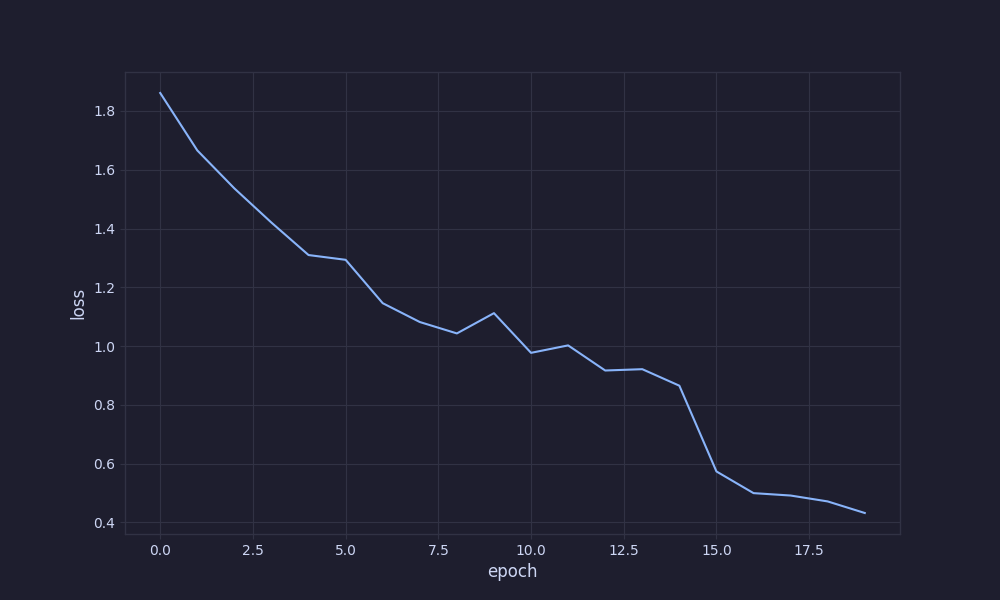
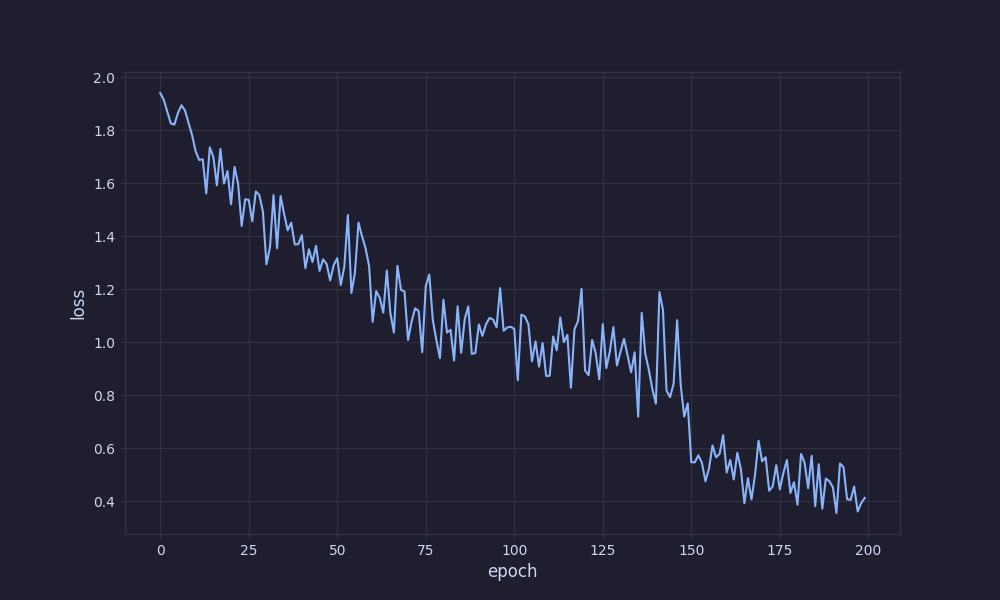
rnn valid loss

diff --git a/src/rnn.py b/src/rnn.py
@@ -50,7 +50,8 @@ class RNN(eqx.Module):
     def __init__(self, n_input: int, n_hidden: int, n_output: int):
         self.n_input = n_input
 
-        self.Wi2h = jax.random.normal(key, (n_input, n_hidden)) * 0.05  # kaiming init
+        self.Wi2h = jax.random.normal(
+            key, (n_input, n_hidden)) * 0.05  # kaiming init
         self.Wh2h = jax.random.normal(key, (n_hidden, n_hidden)) * 0.01
         self.bh = jnp.zeros((n_hidden))
         self.Wh2o = jax.random.normal(key, (n_hidden, n_output)) * 0.01
@@ -117,3 +118,22 @@ for epoch in range(epochs + 1):
     # backward pass
     updates = jax.tree_util.tree_map(lambda g: -lr * g, gradient)
     model = eqx.apply_updates(model, updates)
+
+# 6. validation test
+valid_loss = 0.0
+for i in range(len(Xval)):
+    loss, _ = get_loss(model, Xval[i], Yval[i])
+    valid_loss += loss
+valid_loss /= len(Xval)
+print(f"valid_loss={valid_loss:.3f}")  # best loss is 0.611
+
+# 7. plot loss
+lossi.pop()
+lossi = jnp.mean(jnp.reshape(jnp.array(lossi), (-1, 100)), 1)
+
+plt.figure(figsize=(10, 6))
+plt.style.use(["ggplot", catppuccin.PALETTE.mocha.identifier])
+plt.ylabel("loss")
+plt.xlabel("epoch")
+plt.plot(lossi)
+plt.savefig("test_rnn")

diff --git a/src/torch_rnn.py b/src/torch_rnn.py
@@ -56,7 +56,8 @@ class RNN(nn.Module):
 
 
 n_hidden = 128
-rnn = RNN(data["max_chars_in_word"] * data["vocab_size"], n_hidden, data["num_classes"])
+rnn = RNN(data["max_chars_in_word"] * data["vocab_size"],
+          n_hidden, data["num_classes"])
 
 # 4. training
 rnn.train()
@@ -96,11 +97,11 @@ for i in range(len(Xval)):
 
     loss += F.cross_entropy(logits, torch.tensor([Yb]))
 loss /= len(Xval)
-print(f"val_loss={loss:.2f}")  # best loss is 0.54
+print(f"valid_loss={loss:.2f}")  # best loss is 0.54
 
 # 6. plot loss
 lossi.pop()
-lossi = torch.tensor(lossi).view(-1, 1000).mean(1)
+lossi = torch.tensor(lossi).view(-1, 100).mean(1)
 plt.figure(figsize=(10, 6))
 plt.style.use(["ggplot", catppuccin.PALETTE.mocha.identifier])
 plt.ylabel("loss")
